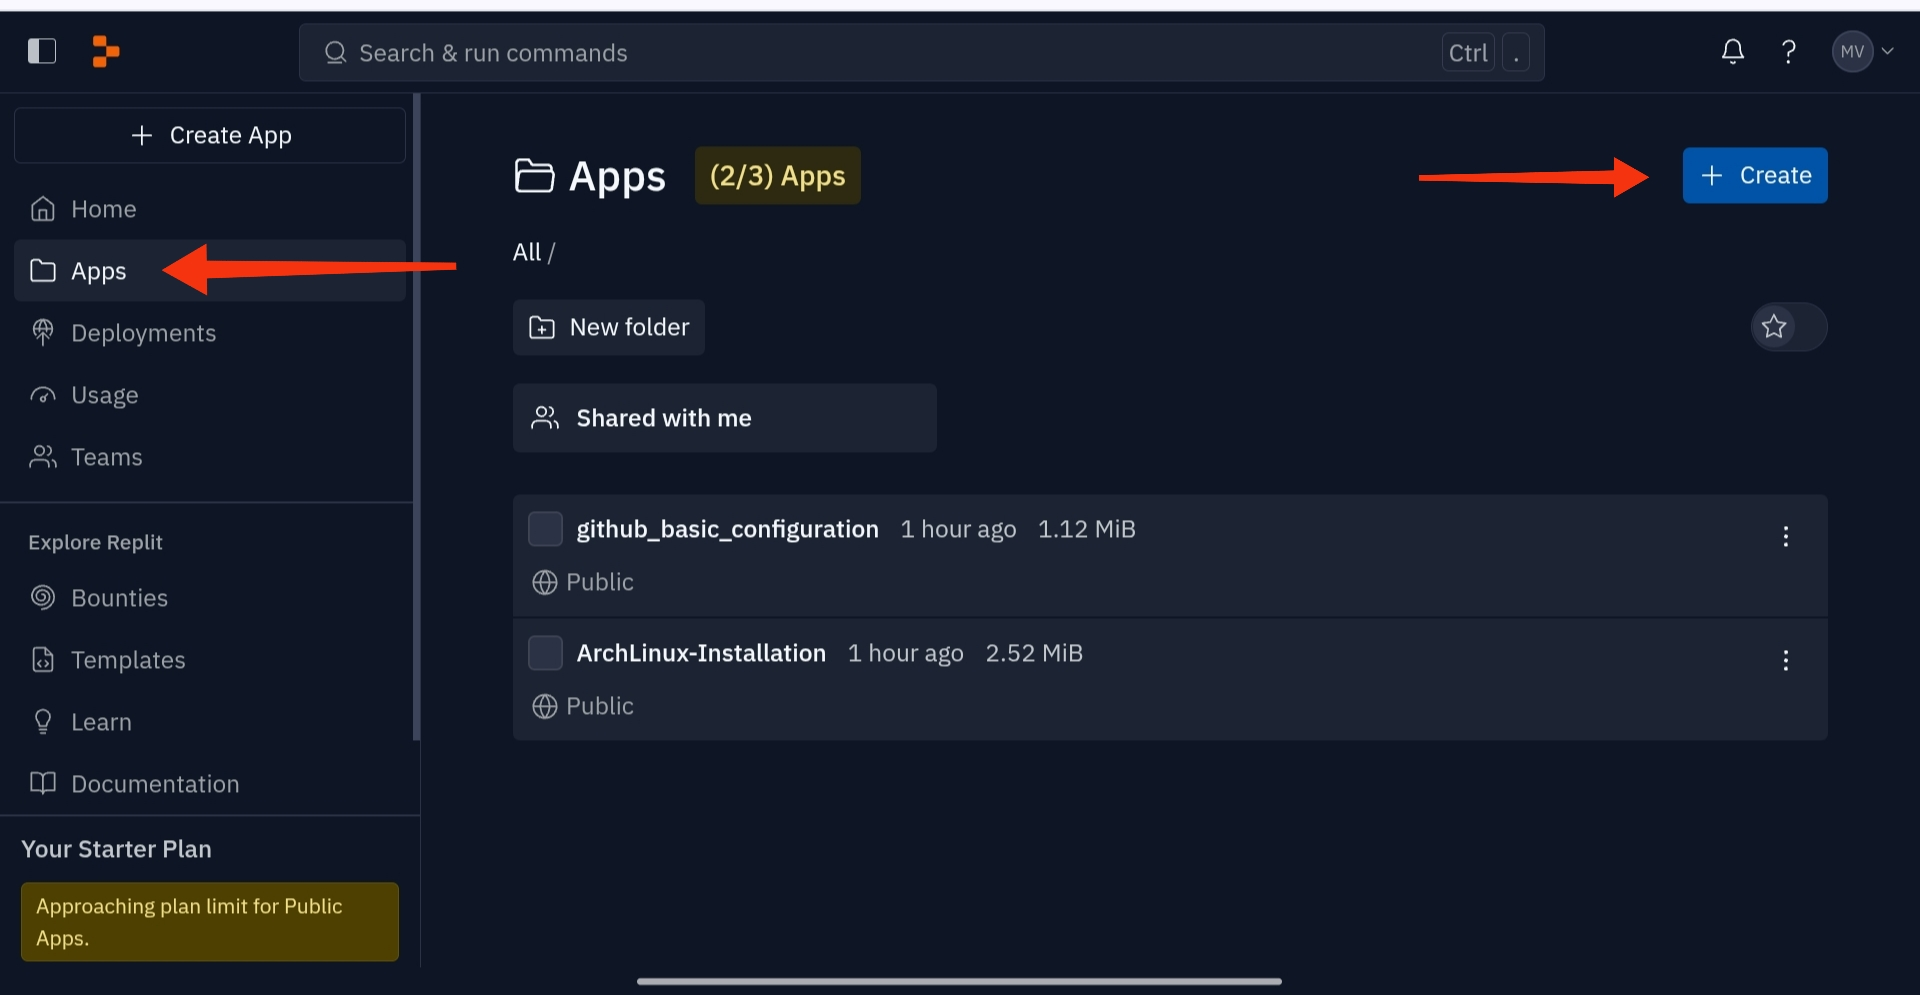
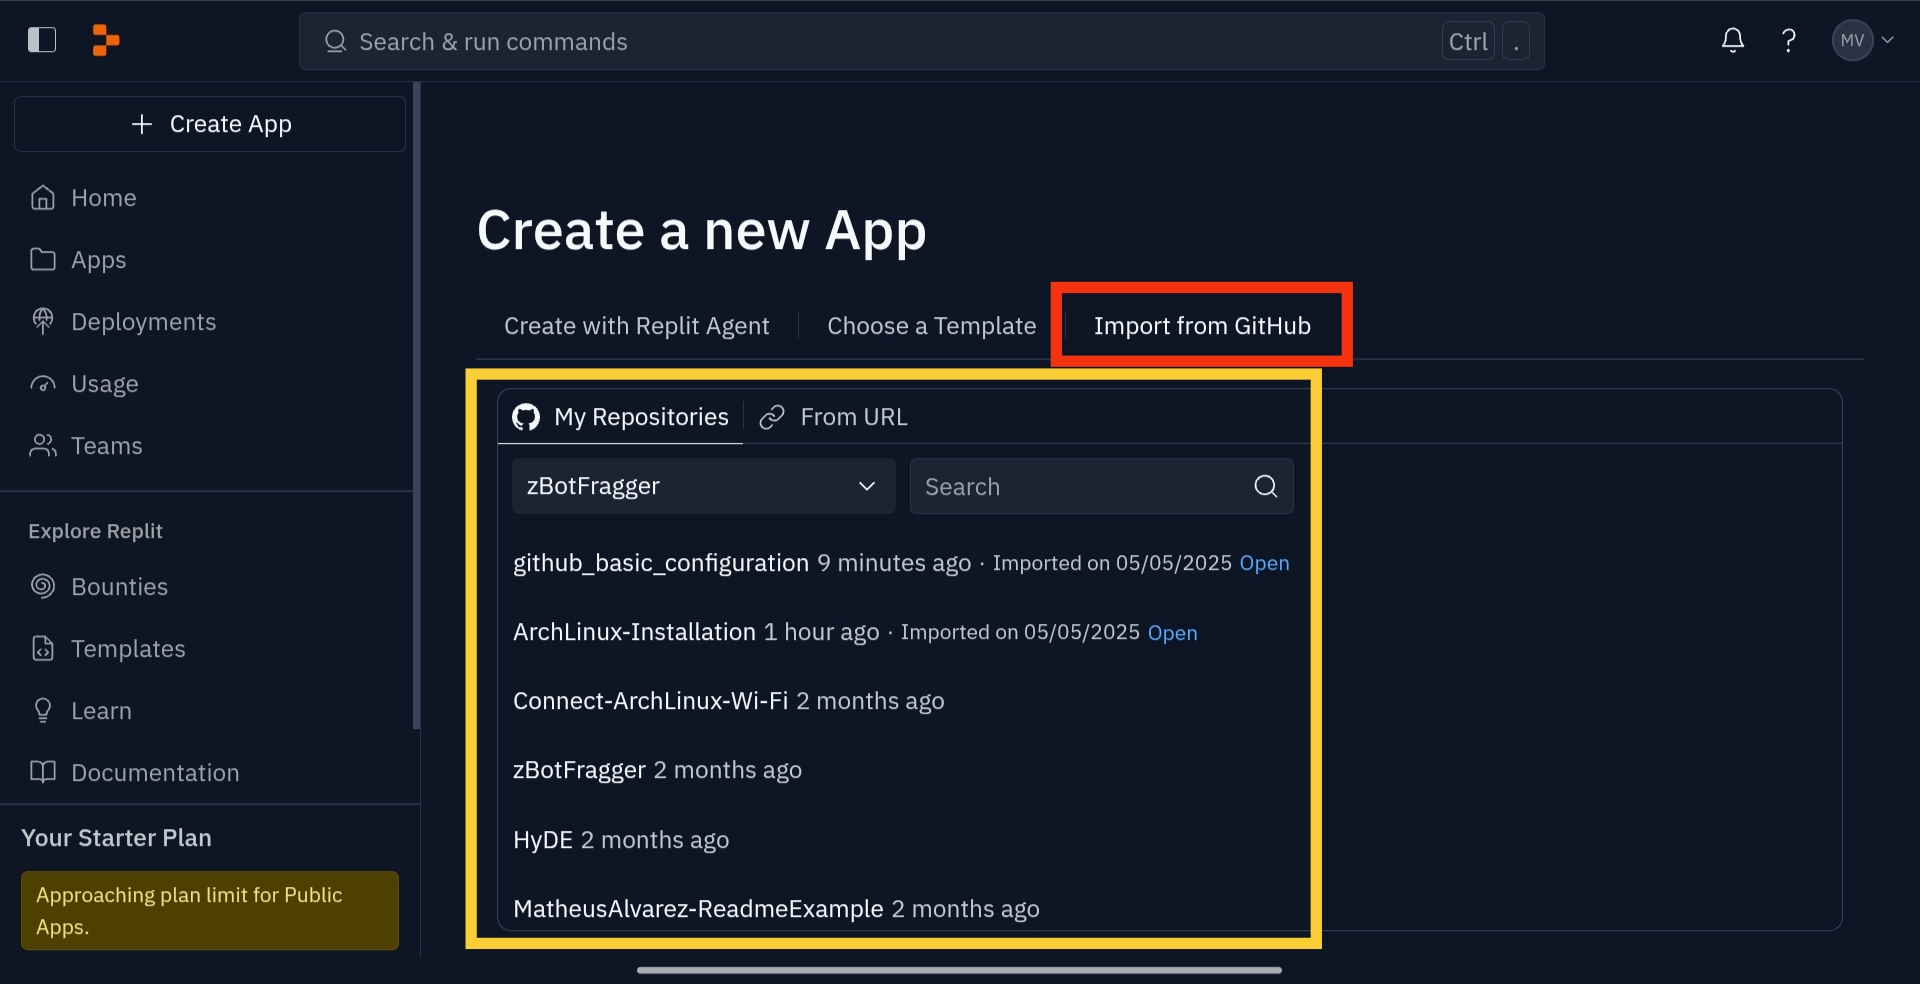
open_workspace asset add

diff --git a/README.md b/README.md
@@ -16,5 +16,9 @@ Now, if you are correctly connected to your github account, you can configure yo
 To configure, you will need open a remote repository, with the configuration made before, you will can access it.
 Click in "Create button" to begin a new project.
 
+![Open workspace](.github/Assets/open_workspace.jpg)
+
+Obs: You can create a "New Repository" previously or can open an oldest, in github page.
+
 
 
